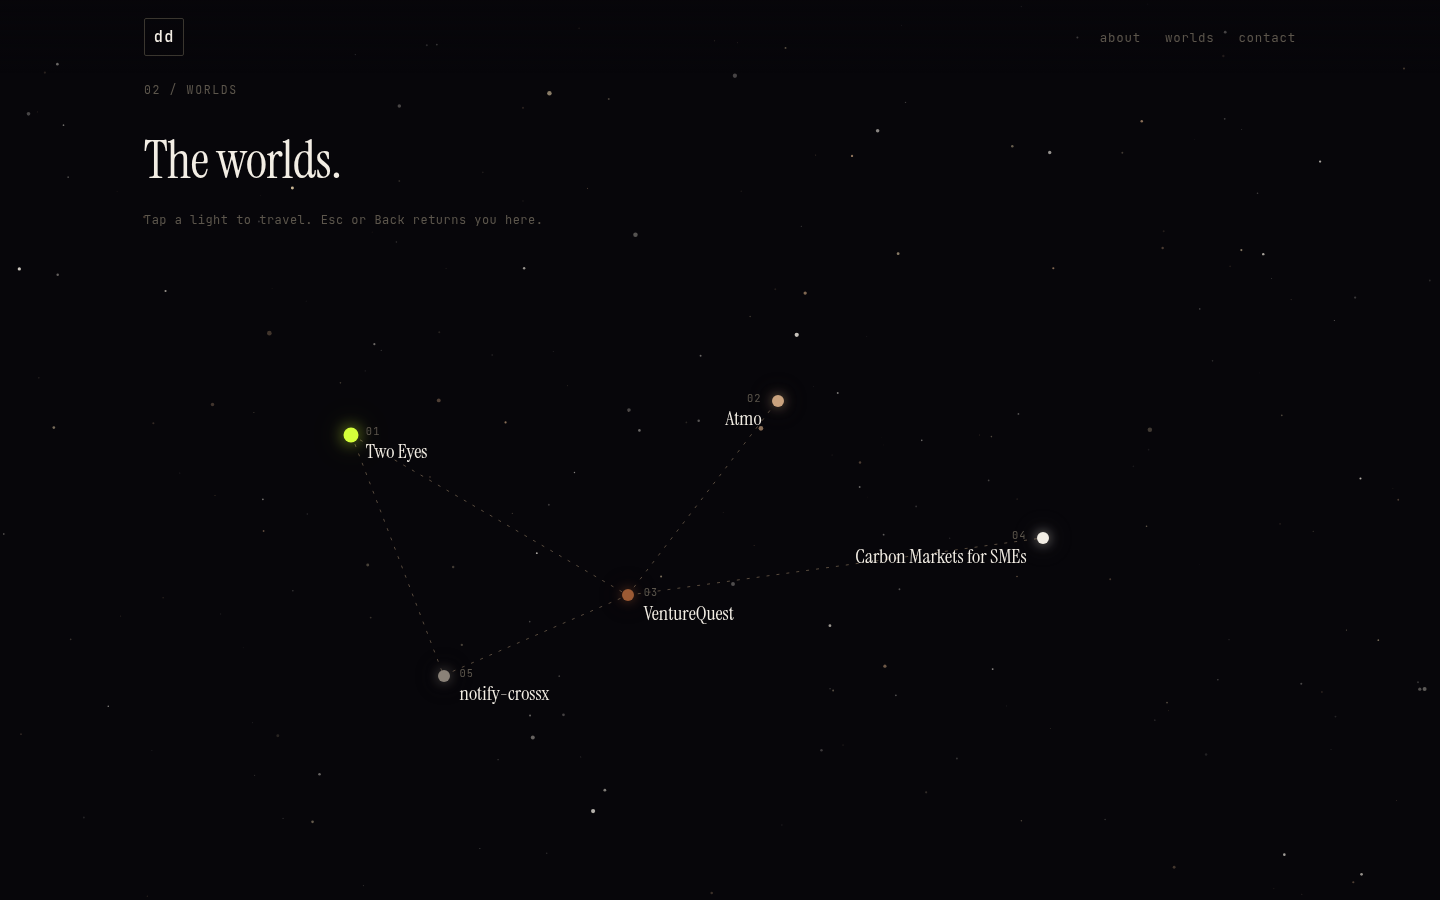
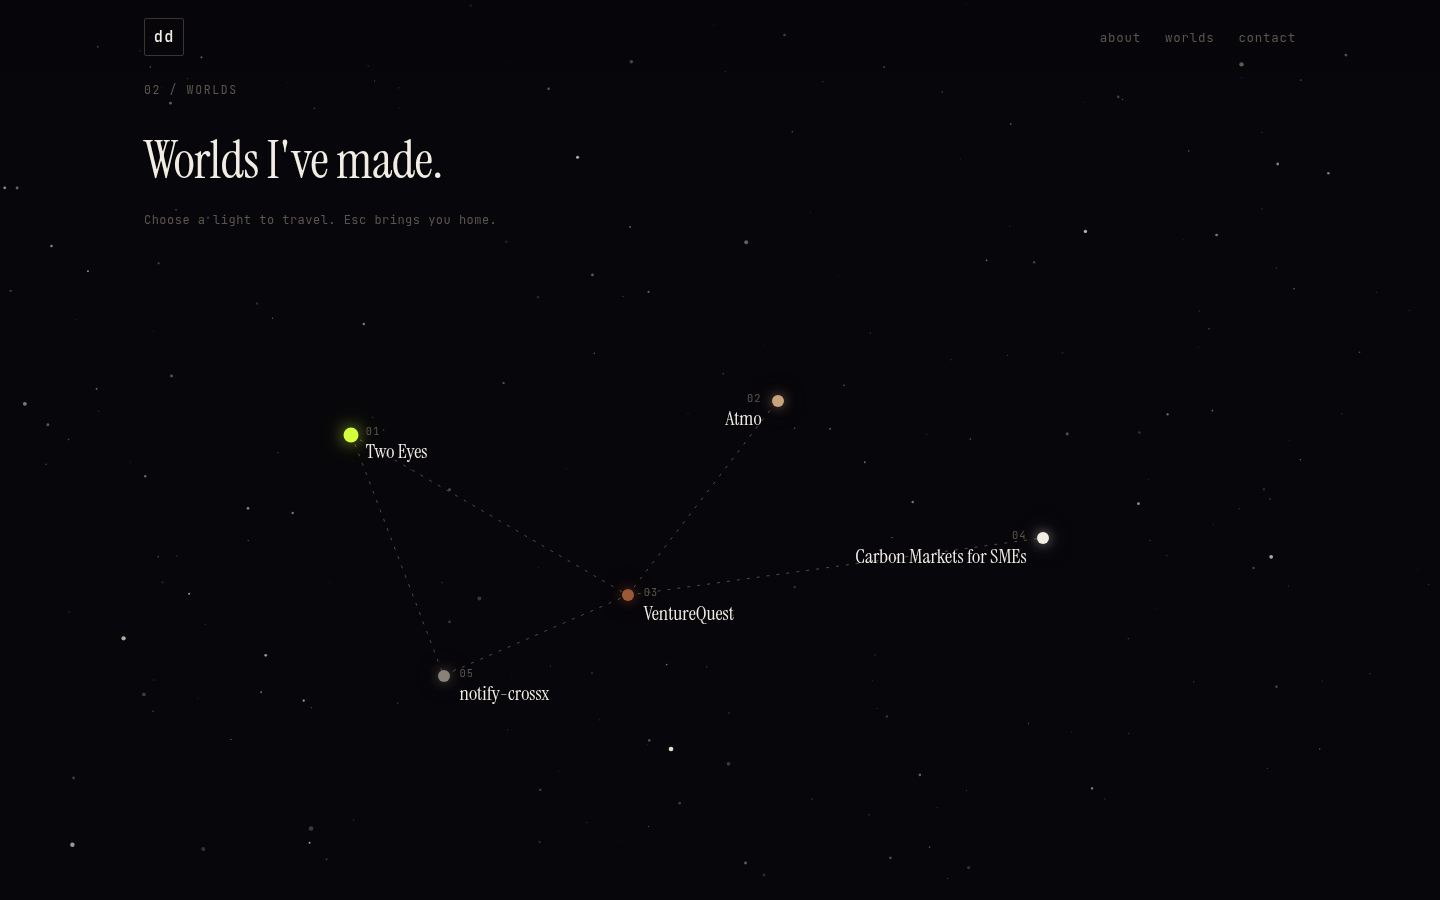
copy: rewrite for The Domain voice

Changed region(s): [[0.0938, 0.1556, 0.3125, 0.2489]]

diff --git a/index.html b/index.html
@@ -4,7 +4,7 @@
   <meta charset="UTF-8">
   <meta name="viewport" content="width=device-width, initial-scale=1.0">
   <title>Davis Dey — The Domain</title>
-  <meta name="description" content="Davis Dey: MPhil researcher and creator working across AI, carbon, and the living systems we depend on. Welcome to my domain.">
+  <meta name="description" content="Davis Dey's domain: a small universe of worlds built where code meets the living planet.">
   <meta name="theme-color" content="#07060A">
   <link rel="icon" href="favicon.svg" type="image/svg+xml">
   <link rel="preconnect" href="https://fonts.googleapis.com">
@@ -35,10 +35,10 @@
       <div class="about__inner">
         <p class="eyebrow">01 / domain</p>
         <h1 class="about__greeting" id="about-title">Greetings, welcome to my domain.</h1>
-        <p class="about__intro">I'm Davis — an MPhil researcher and builder in Accra, working across AI, carbon, and the living systems we depend on.</p>
+        <p class="about__intro">I'm Davis. I make worlds out of questions.</p>
         <div class="about__bio">
-          <p>MPhil student in Climate Change and Sustainable Development at the University of Ghana. Background in Industrial Engineering at KNUST. National service with the Africa Climate Collaborative, working alongside climate entrepreneurs from Accra to Tamale.</p>
-          <p>Each light below is a world I've been making.</p>
+          <p>Some of them watch rivers from orbit. Some let founders fail safely. One just taps you on the shoulder when the machine is done. They all orbit the same thing: the planet we live on, and what we could still make of it.</p>
+          <p>Each light out there is one of them.</p>
         </div>
         <a class="scroll-cue" href="#worlds">
           <span class="scroll-cue__label">look outward</span>
@@ -50,8 +50,8 @@
     <section class="section worlds" id="worlds" aria-labelledby="worlds-title">
       <div class="worlds__header">
         <p class="eyebrow">02 / worlds</p>
-        <h2 class="worlds__title" id="worlds-title">The worlds.</h2>
-        <p class="worlds__hint">Tap a light to travel. Esc or Back returns you here.</p>
+        <h2 class="worlds__title" id="worlds-title">Worlds I've made.</h2>
+        <p class="worlds__hint">Choose a light to travel. Esc brings you home.</p>
       </div>
 
       <div class="star-map" id="star-map" role="group" aria-label="Star map of projects"></div>
@@ -62,8 +62,8 @@
     <section class="section contact" id="contact" aria-labelledby="contact-title">
       <div class="contact__inner">
         <p class="eyebrow">03 / contact</p>
-        <h2 class="contact__title" id="contact-title">Say hello.</h2>
-        <p class="contact__body">Collaborations, research conversations, or a good question. Researching carbon, MRV, or ecosystem services? Making something with AI for the natural world? I'd like to hear from you.</p>
+        <h2 class="contact__title" id="contact-title">Send a signal.</h2>
+        <p class="contact__body">Building something for the living world, studying how it gets measured, or carrying a good question? The line is open.</p>
         <ul class="contact__links">
           <li><a href="mailto:davisdey001@gmail.com">email</a></li>
           <li><a href="https://github.com/davissekai" target="_blank" rel="noopener noreferrer">github</a></li>
@@ -75,7 +75,7 @@
   </main>
 
   <footer class="site-footer">
-    <p class="footer-copy">&copy; <span id="year"></span> davis_dey · the domain</p>
+    <p class="footer-copy">&copy; <span id="year"></span> davis dey · somewhere in the domain</p>
     <a href="#about" class="footer-top" aria-label="Back to top">↑</a>
   </footer>
 
@@ -104,11 +104,11 @@
     <div class="noscript">
       <h2>Selected work</h2>
       <ul>
-        <li><a href="https://github.com/davissekai/two-eyes">Two Eyes</a> — citizen video + Sentinel-2 evidence cards for mining scars.</li>
-        <li><a href="https://atmo-v2.vercel.app">Atmo</a> — AI companion for climate questions.</li>
-        <li><a href="https://mvp-six-vert.vercel.app/">VentureQuest</a> — climate-venture game.</li>
-        <li>Carbon Markets for SMEs — ongoing research (in development).</li>
-        <li><a href="https://github.com/davissekai/opencode-notify-crossx">notify-crossx</a> — desktop ping for AI coding agents.</li>
+        <li><a href="https://github.com/davissekai/two-eyes">Two Eyes</a> — A river turns brown. One eye on the ground, one in orbit, and the mud finally has an address.</li>
+        <li><a href="https://atmo-v2.vercel.app">Atmo</a> — Ask the climate anything.</li>
+        <li><a href="https://mvp-six-vert.vercel.app/">VentureQuest</a> — Run a climate startup. Survive your own decisions.</li>
+        <li>Carbon Markets for SMEs — Who gets a seat at the carbon table? (in development)</li>
+        <li><a href="https://github.com/davissekai/opencode-notify-crossx">notify-crossx</a> — Step away. It'll call you back.</li>
       </ul>
       <p><a href="mailto:davisdey001@gmail.com">davisdey001@gmail.com</a></p>
     </div>

diff --git a/docs/SCAFFOLD_BRIEF.md b/docs/SCAFFOLD_BRIEF.md
@@ -8,7 +8,7 @@ Build the **structure and behaviour shell only**. Another human designer will ow
 ## Layout (three short scroll sections)
 1. **About (hero)** — `#about`
    - Greeting: `Greetings, welcome to my domain.`
-   - Then `I'm Davis…` with a short bio condensed from the current site (MPhil Climate Change & Sustainable Development at UG; Industrial Engineering KNUST; Africa Climate Collaborative service; works across AI, carbon, living systems in Accra/Ghana). Keep facts real.
+   - Then `I'm Davis…` with a short, evocative intro (no credentials). Keep facts real.
 2. **Worlds (star map)** — `#worlds`
    - Five worlds from the current live site, Two Eyes first.
    - Each world is a focusable/clickable node on a map.
